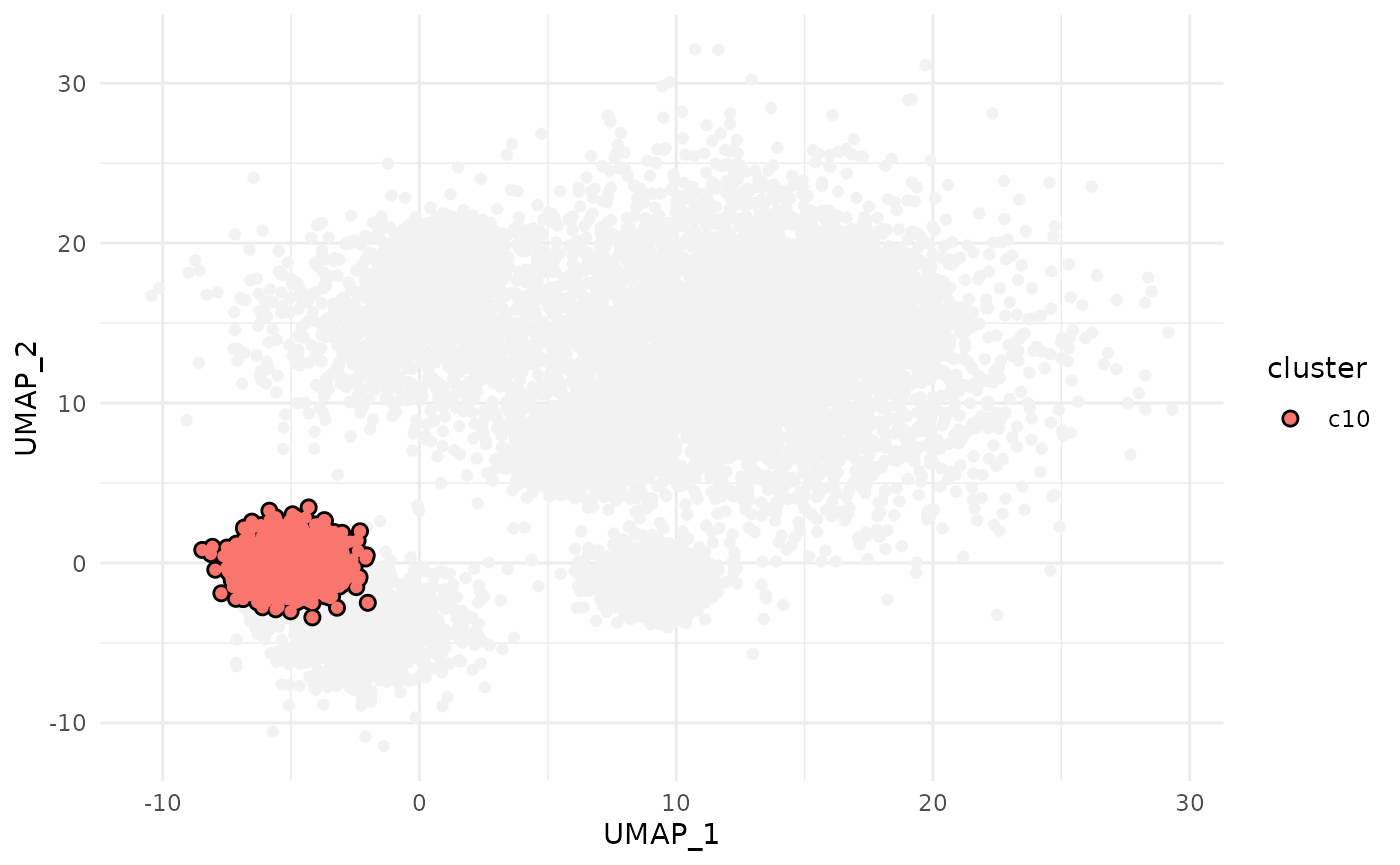
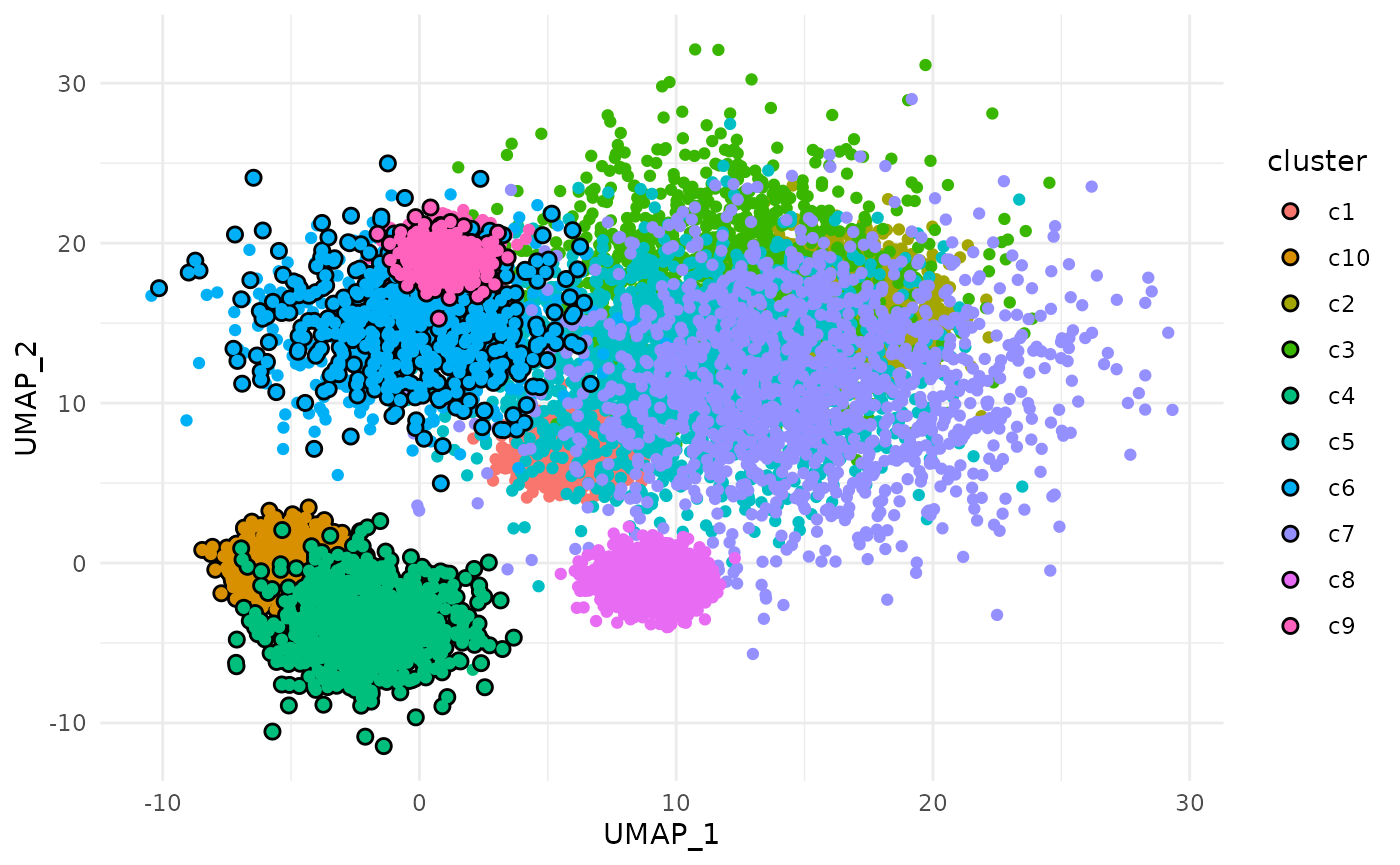
Built site for ggtrace: 0.0.0.9000@c14656e

diff --git a/articles/geom-point-trace.html b/articles/geom-point-trace.html
@@ -172,8 +172,7 @@
 <div class="sourceCode" id="cb6"><pre class="downlit sourceCode r">
 <code class="sourceCode R"><span class="va">p</span> <span class="op">+</span>
   <span class="fu"><a href="../reference/geom_point_trace.html">geom_point_trace</a></span><span class="op">(</span>
-    trace_position <span class="op">=</span> <span class="va">cluster</span> <span class="op">==</span> <span class="st">"c10"</span>,
-    background_color <span class="op">=</span> <span class="st">"grey95"</span>
+    trace_position <span class="op">=</span> <span class="va">signal</span> <span class="op">&lt;</span> <span class="fl">0</span>
   <span class="op">)</span></code></pre></div>
 <p><img src="geom-point-trace_files/figure-html/unnamed-chunk-6-1.png" width="700"></p>
 <p><br></p>

diff --git a/reference/index.html b/reference/index.html
@@ -146,12 +146,6 @@
       </tr><tr>
         
         <td>
-          <p><code><a href="create_trace_layers.html">create_trace_layers()</a></code> </p>
-        </td>
-        <td><p>Create geom_*_trace layers</p></td>
-      </tr><tr>
-        
-        <td>
           <p><code><a href="draw_key.html">draw_key_point_trace()</a></code> <code><a href="draw_key.html">draw_key_path_trace()</a></code> </p>
         </td>
         <td><p>Key glyphs for legends</p></td>
